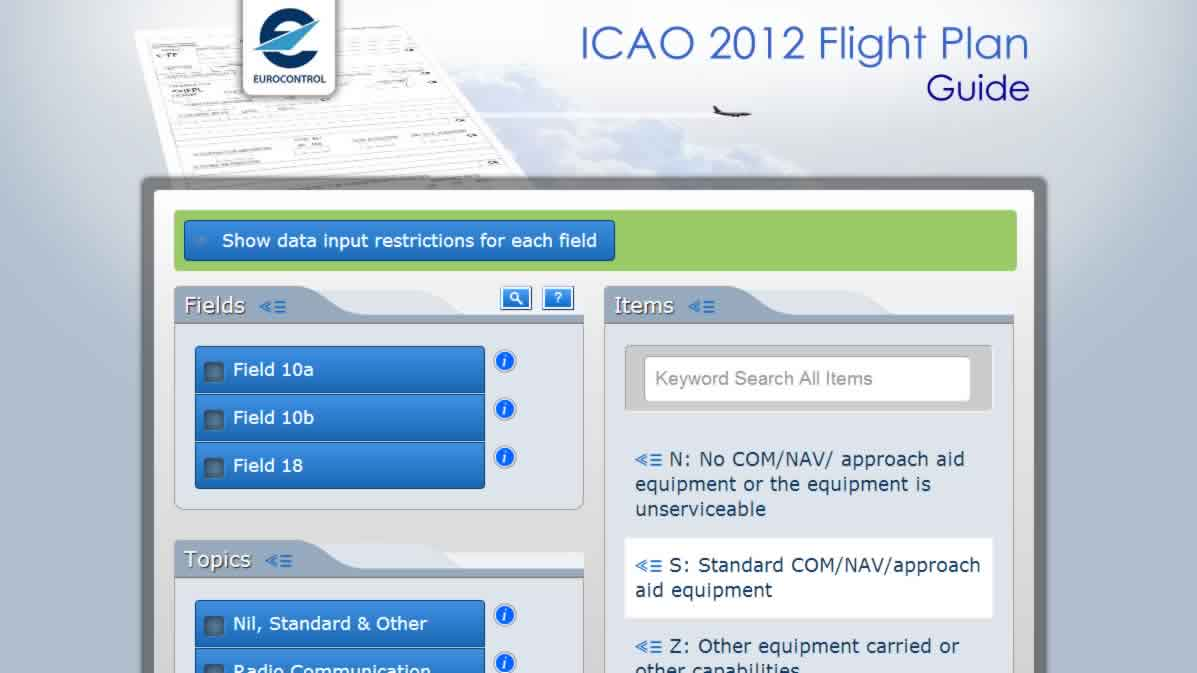
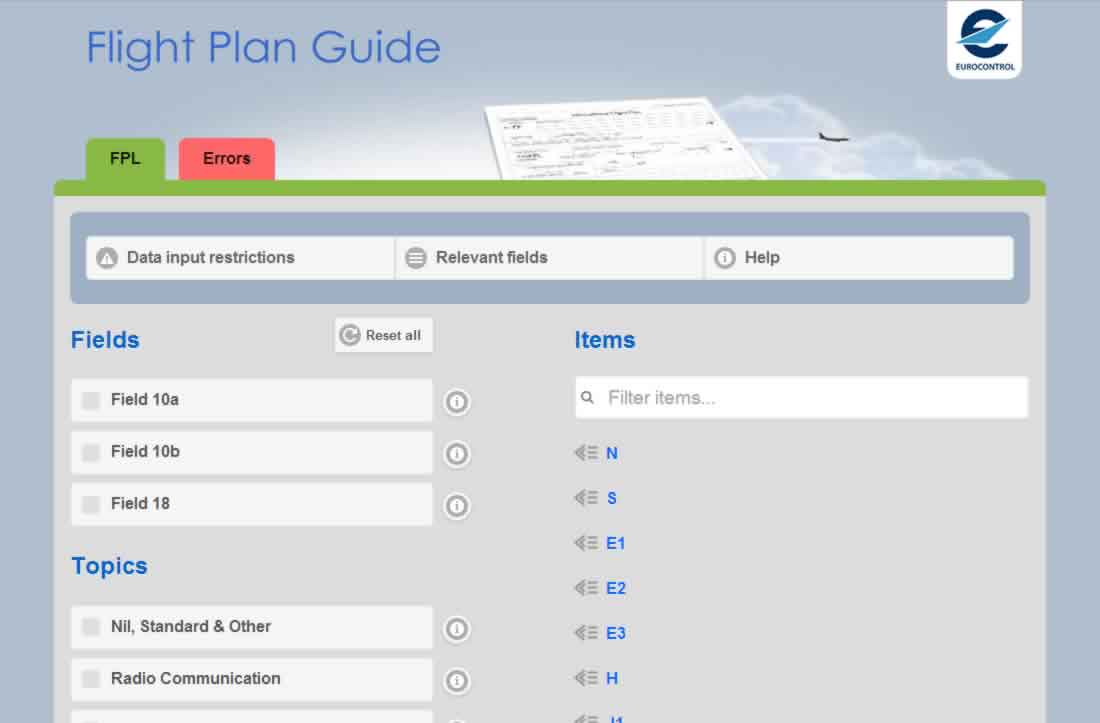
finished two case posts on FPL

diff --git a/app/webapps.html b/app/webapps.html
@@ -42,15 +42,15 @@ webapps-active: "navigation-active"
                                 </a>
                             </li>
                             <li id="webapp" class="example-webapp">
-                                <a href="flight-plan-guide-case-study.html" title="Select to read a short case study of the Flight Plan Guide Project.">
+                                <a href="/blog/case-study/2014/01/10/case-fpl.html" title="Select to read a short case study of the Flight Plan Guide v1.0 Project.">
                                     <h3 class="examples-thumbnail example-fple">Flight Plan Guide v1.0</h3>
-                                     <p>Responsive application that won global recognition.</p>
+                                     <p>Desktop and mobile applications that won global recognition.</p>
                                 </a>
                             </li>
 
                             <li class="example-webapp">
                                 <a href="flight-plan-guide-case-study.html" title="Select to read a short case study of the Headings Tutor game.">
-                                    <h3 class="examples-thumbnail example-ht">Aircraft Performance</h3>
+                                    <h3 class="examples-thumbnail example-ht">Aircraft Performance v2.0</h3>
                                      <p>Desktop and mobile versions of a hugely popular database application.</p>
                                 </a>
                             </li>

diff --git a/app/_scss/_font-family.scss b/app/_scss/_font-family.scss
@@ -7,7 +7,7 @@ html, body {
     color: #555; */
 }
 
-p, .contact-links, .post ul {
+p, .contact-links, .post ul, .post ol {
     // font-family: "helvetica", "arial", sans-serif;
     // font-family: "HelveticaNeue-Light", "Helvetica Neue Light", "Helvetica Neue", Helvetica, Arial, "Lucida Grande", sans-serif;
     font-weight: 300;
@@ -33,7 +33,7 @@ h1, h2, h3, .navigation {
 
 
 @media all and (min-width: $break-points-font-medium) {
-    p, .contact-links, .post ul {
+    p, .contact-links, .post ul, .post ol {
         font-size: 110%*1.5;
         // line-height: 1.5em;
     }

diff --git a/app/_layouts/blog-post-layout.html b/app/_layouts/blog-post-layout.html
@@ -5,7 +5,7 @@ layout: blog-layout
             <h2>{{ page.title }}</h2>
 
             <p><small class="blog-post-link-date">{{ page.date | date: "%-d %B %Y" }}</small></p>
-            <p><small>Reading time ~{{ content.size | readtime }} min, Categories:
+            <p><small>Reading time ~{{ content.size | readtime }} min | Categories:
             {% for category in page.categories %}
                 <a href="{{ site.url }}/blog/categories/{{ category  }}">{{ category  }}</a>&nbsp;
             {% endfor %}

diff --git a/app/_scss/_blog-recent-posts.scss b/app/_scss/_blog-recent-posts.scss
@@ -38,7 +38,7 @@
   // float:right;
   display: block;
   margin: 0.75em 0 1em 0;
-  color: #999;
+  color: $post-subtle-colour;
   font-size: 110%;
 }
 
@@ -51,7 +51,14 @@
   margin-top: 2em;
 }
 
-.post img {
+.post img, .post figcaption {
+  display: block;
   width:100%;
 }
 
+.post figcaption {
+  // text-align: center;
+  font-size: 1em;
+  margin-top: 1em;
+  color: $post-subtle-colour;
+}

diff --git a/app/_scss/_variables.scss b/app/_scss/_variables.scss
@@ -27,3 +27,5 @@ $role-main-section-drip-colour: #eee;
 $role-main-link-colour: #49f;
 
 $contact-links-icon-height: 52px;
+
+$post-subtle-colour: #999;

diff --git a/app/_posts/2014-01-11-case-fple.md b/app/_posts/2014-01-11-case-fple.md
@@ -4,39 +4,50 @@ title:  "Case Study: Flight Plan Guide + Errors"
 categories: Case-Study
 ---
 
-In 2012 the format of Flight Plans was to be updated. To prepare Flight Plan users across Europe for the change, Eurocontrol commissioned me to create a database application to allow users to explore the changes.
-
-You can view the current version here: <a href="http://contentzone.eurocontrol.int/fpl/">http://contentzone.eurocontrol.int/fpl/</a>
-
-Version 1.0 used Javascript to filter user selections in the browser, instead of on the server, to save a round trip and make the application respond almost instantly.
-
-
+<a href="/blog/case-study/2014/01/10/case-fpl.html" title="Select to read a short case study of the Flight Plan Guide V1.0 web application.">Version 1.0</a> of the tool was so popular Eurocontrol decided to expand the app's remit. They wanted to add a section allowing users to explore errors they could expect to receive if the Flight Plan had been incorrectly filed.
 
 <figure>
-  <img src="/blog/img/2014/jan/2014-01-11-case-fple.jpg" alt="Screenshot of the Flight Plan Guide Database Application v1.0.">
-  <figcaption>Screenshot of the Flight Plan Guide Database Application v1.0.</figcaption>
+  <img src="/blog/img/2014/jan/2014-01-11-case-fple.jpg" alt="Screenshot of the Flight Plan Guide Database Application v2.0." style="max-width:550px;">
+  <figcaption>Screenshot of the Flight Plan Guide Database Application v2.0.</figcaption>
 </figure>
 
-The Flight Plan Guide was initially aimed at a European audience but after it was recommended by ICAO, it reached a Worldwide audience:
+You can view the current version at: <a href="http://contentzone.eurocontrol.int/fpl/" title="Open the Flight Plan Guide application in a new Window." target="_blank">http://contentzone.eurocontrol.int/fpl/</a>
 
-* +53,000 unique visitors,
-* +350,000 page views,
-* from 187 different countries.
+<figure>
+  <img src="/blog/img/2014/jan/2014-01-11-case-fpleSmall.jpg" alt="Screenshot of the Flight Plan Guide Database Application v2.0 at a small screen resolution." style="max-width:395px;">
+  <figcaption>Screenshot of the same Application on a small screen.</figcaption>
+</figure>
 
-The site also included an admin back end using Dynamic Data ASP.NET MVC
+### Spec
 
-All good websites should continue to evolve and in 2013, I was asked to add a new section that allowed users to review errors that they might receive when filing a flight plan. I made two proposals; extend the current approach or refactor the design incorporate what I had learnt about performance issues and make it responsive.
+Eurocontrol came to me with a general requirement to add an Errors section while retaining the version 1.0 features. I was asked to write the spec. I presented them with 2 detailed options, outlining the costs and benefits of each.
 
-Thankfully, my client, in their wisdom :-) chose to make the application responsive.
+1. Adapt the current desktop and mobile applications to the new requirement.
+2. Redsign from scratch, creating a responsive site and doing away with the need for dual applications - I had learned a wee bit more about responsive sites by now!
 
+All good websites should continue to evolve and my client, in their wisdom :-), chose to make the application responsive.
 
+### Solution
 
-Intro / background
+The new application is based on the 'Flat' design concept. I like this because it improves performance in the browser and can make for a very clean interface as long as everything is given appropriate space and balance.
 
-Spec
+I created a responsive design that would work on phone screens as well as desktops.
 
-Solution
+I refactored the JavaScript to make it even more efficient and tried to use native JavaScript instead of jQuery wherever possible.
 
-Tech
+On the details page I also added a 'step through' feature to allow users to step through the list of items they had filtered down to.
 
-Response
+<figure>
+  <img src="/blog/img/2014/jan/2014-01-11-case-fpleSmall-detail.jpg" alt="Screenshot of the Flight Plan Item detail page at a small screen resolution." style="max-width:395px;">
+  <figcaption>Screenshot of the Flight Plan Detail page with step through feature on a small screen.</figcaption>
+</figure>
+
+### Technical
+
+I used jQuery Mobile for the interface as this is touch optimised and a better choice for a responsive design.
+
+Offline is still achieved via HTML5 appcache: the manifest.appcache file is dynamic, written in ASP.NET. It queries the database for the last change time and date. This time and date is written into the appcache file as a comment. Therefore, if the appcache file changes in any way, this triggers a reload of the content to the local browser (using a JavaScript checking function in the browser).
+
+This has the added benefit of improveing performance as new assets are only downloaded if there is a change on the server.
+
+This approach can only be used for relatively small datasets as all the content has to be loaded onto the client side.

diff --git a/app/_posts/2014-01-10-case-fpl.md b/app/_posts/2014-01-10-case-fpl.md
@@ -1,0 +1,56 @@
+---
+layout: blog-post-layout
+title:  "Case Study: Flight Plan Guide v1.0 + Mobile"
+categories: Case-Study
+---
+
+**Note: these applications have been superceeded by version 2.0. You can read about that <a href="/blog/case-study/2014/01/11/case-fple.html" title="Select to read a short case study of the FPLE web application.">here</a>.**
+
+In 2012 the format of Flight Plans was to be updated. To prepare Flight Plan users across Europe for the change in 2011, Eurocontrol commissioned me to create a database application to allow users to explore the changes.
+
+### Spec
+
+Offline access was required as it would be used in-flight by pilots. There was also a need for an administration site to allow the Subject Matter Expert to create, edit and delete database content. Finally, the application had to work on a minimum browser of IE8 on XP. The rest was left up to me.
+
+### Solution
+
+I designed and developer the MS SQL database, desktop and mobile applications and the admin back-end.
+
+I separated desktop and mobile to allow the mobile version to concentrate on optimised delivery with offline capabilities.
+
+<figure>
+  <img src="/blog/img/2014/jan/2014-01-11-case-fpl.jpg" alt="Screenshot of the Flight Plan Guide Database Application v1.0." style="max-width:598px;">
+  <figcaption>Screenshot of the Flight Plan Guide Database Application v1.0.</figcaption>
+</figure>
+
+Both versions use custom Javascript to filter user selections in the browser, instead of on the server, to save a round trip and make the application respond almost instantly.
+
+<figure>
+  <img src="/blog/img/2014/jan/2014-01-10-case-fplm.jpg" alt="Screenshot of the Flight Plan Guide Database Mobile Application v1.0." style="max-width:247px;">
+  <figcaption>Screenshot of the Flight Plan Guide Database Mobile Application v1.0.</figcaption>
+</figure>
+
+
+The desktop version allows users to narrow their selection using two groups of checkbox buttons. They could also use a free search input box that would filter the currently visible items and highlight the text that matched the search.
+
+The mobile version used drop down boxes that contained check buttons to reduce screen space used and allow all filter tools and some search results to appear in the available screen space.
+
+### Technical
+
+The applications use MS SQL and ASP.NET server-side. Their main job is to build JSON data models and deliver them to the client browser embedded in the page.
+
+Custom JavaScript takes care of all filtering and user interaction. This format means that all the requierd data and assets can work on the client once I saved them locally using HTML5 AppCache.
+
+I used jQuery UI for the desktop version and jQuery Mobile for the mobile application.
+
+The Admin site was built using ASP.NET MVC Dynamic Data which automatically created most of the forms needed to properly edit the data. I had to create a few custom pages to tweak the process but overall it was incredible how quickly an admin site could be set up.
+
+### Outcome
+
+The Flight Plan Guide was initially aimed at a European audience but, after it was recommended by ICAO, it reached a Worldwide audience:
+
+* +53,000 unique visitors,
+* +350,000 page views,
+* from 187 different countries.
+
+It was very well received at Eurocontrol and an article appeared about it in the internal Insights magazine.
